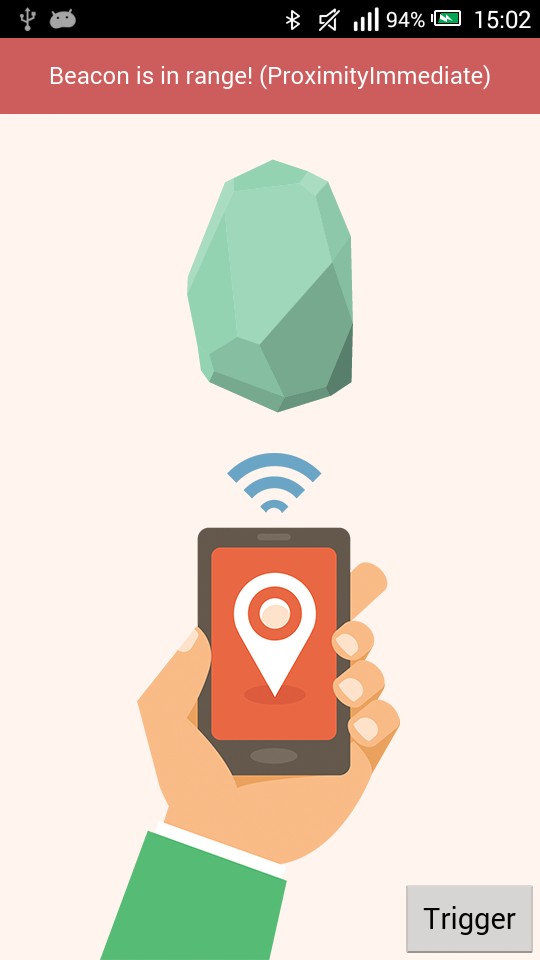
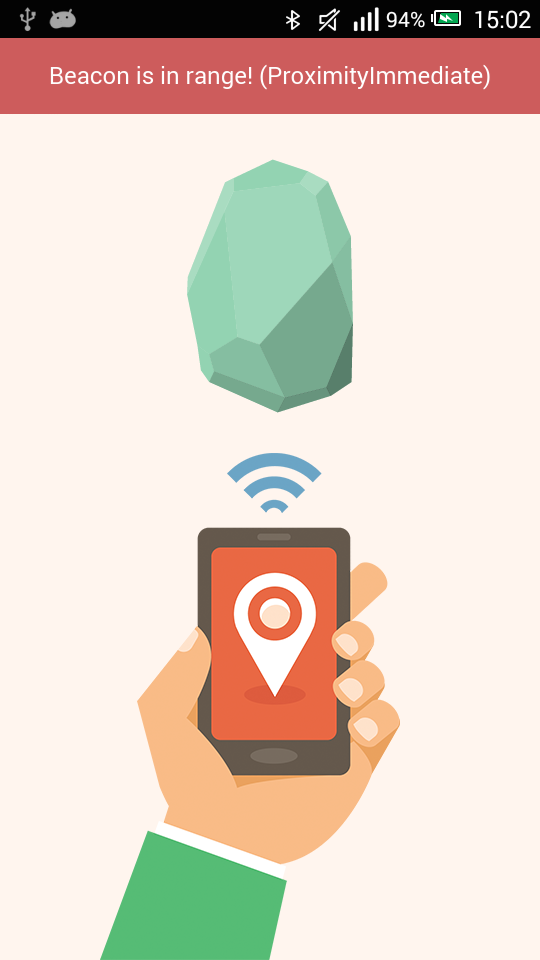
Fixed screenshot src url.

Changed region(s): [[0.7407, 0.9062, 1.0, 1.0]]

diff --git a/README.md b/README.md
@@ -32,7 +32,7 @@ cordova platforms add ios
 
 If you don't have any iBeacons, you can use your iPhone or iPad to create a virtual iBeacon.
 
-You can use the [estimote iOS app](https://itunes.apple.com/us/app/estimote/id686915066?mt=8) or the [GG Virtual iBeacon app](https://itunes.apple.com/us/app/gg-virtual-ibeacon/id867470259?mt=8)
+You can use the [estimote iOS app](https://itunes.apple.com/us/app/estimote/id686915066?mt=8) or the [GG Virtual iBeacon app](https://itunes.apple.com/us/app/gg-virtual-ibeacon/id867470259?mt=8).
 
 ### Screenshots
 
@@ -40,4 +40,4 @@ You can use the [estimote iOS app](https://itunes.apple.com/us/app/estimote/id68
 
 ![Range near](/screenshots/Beacon-in-range-near.png)
 
-![Range not in range](/screenshots/Beacon-not-range.png)
+![Range not in range](/screenshots/Beacon-not-in-range.png)
